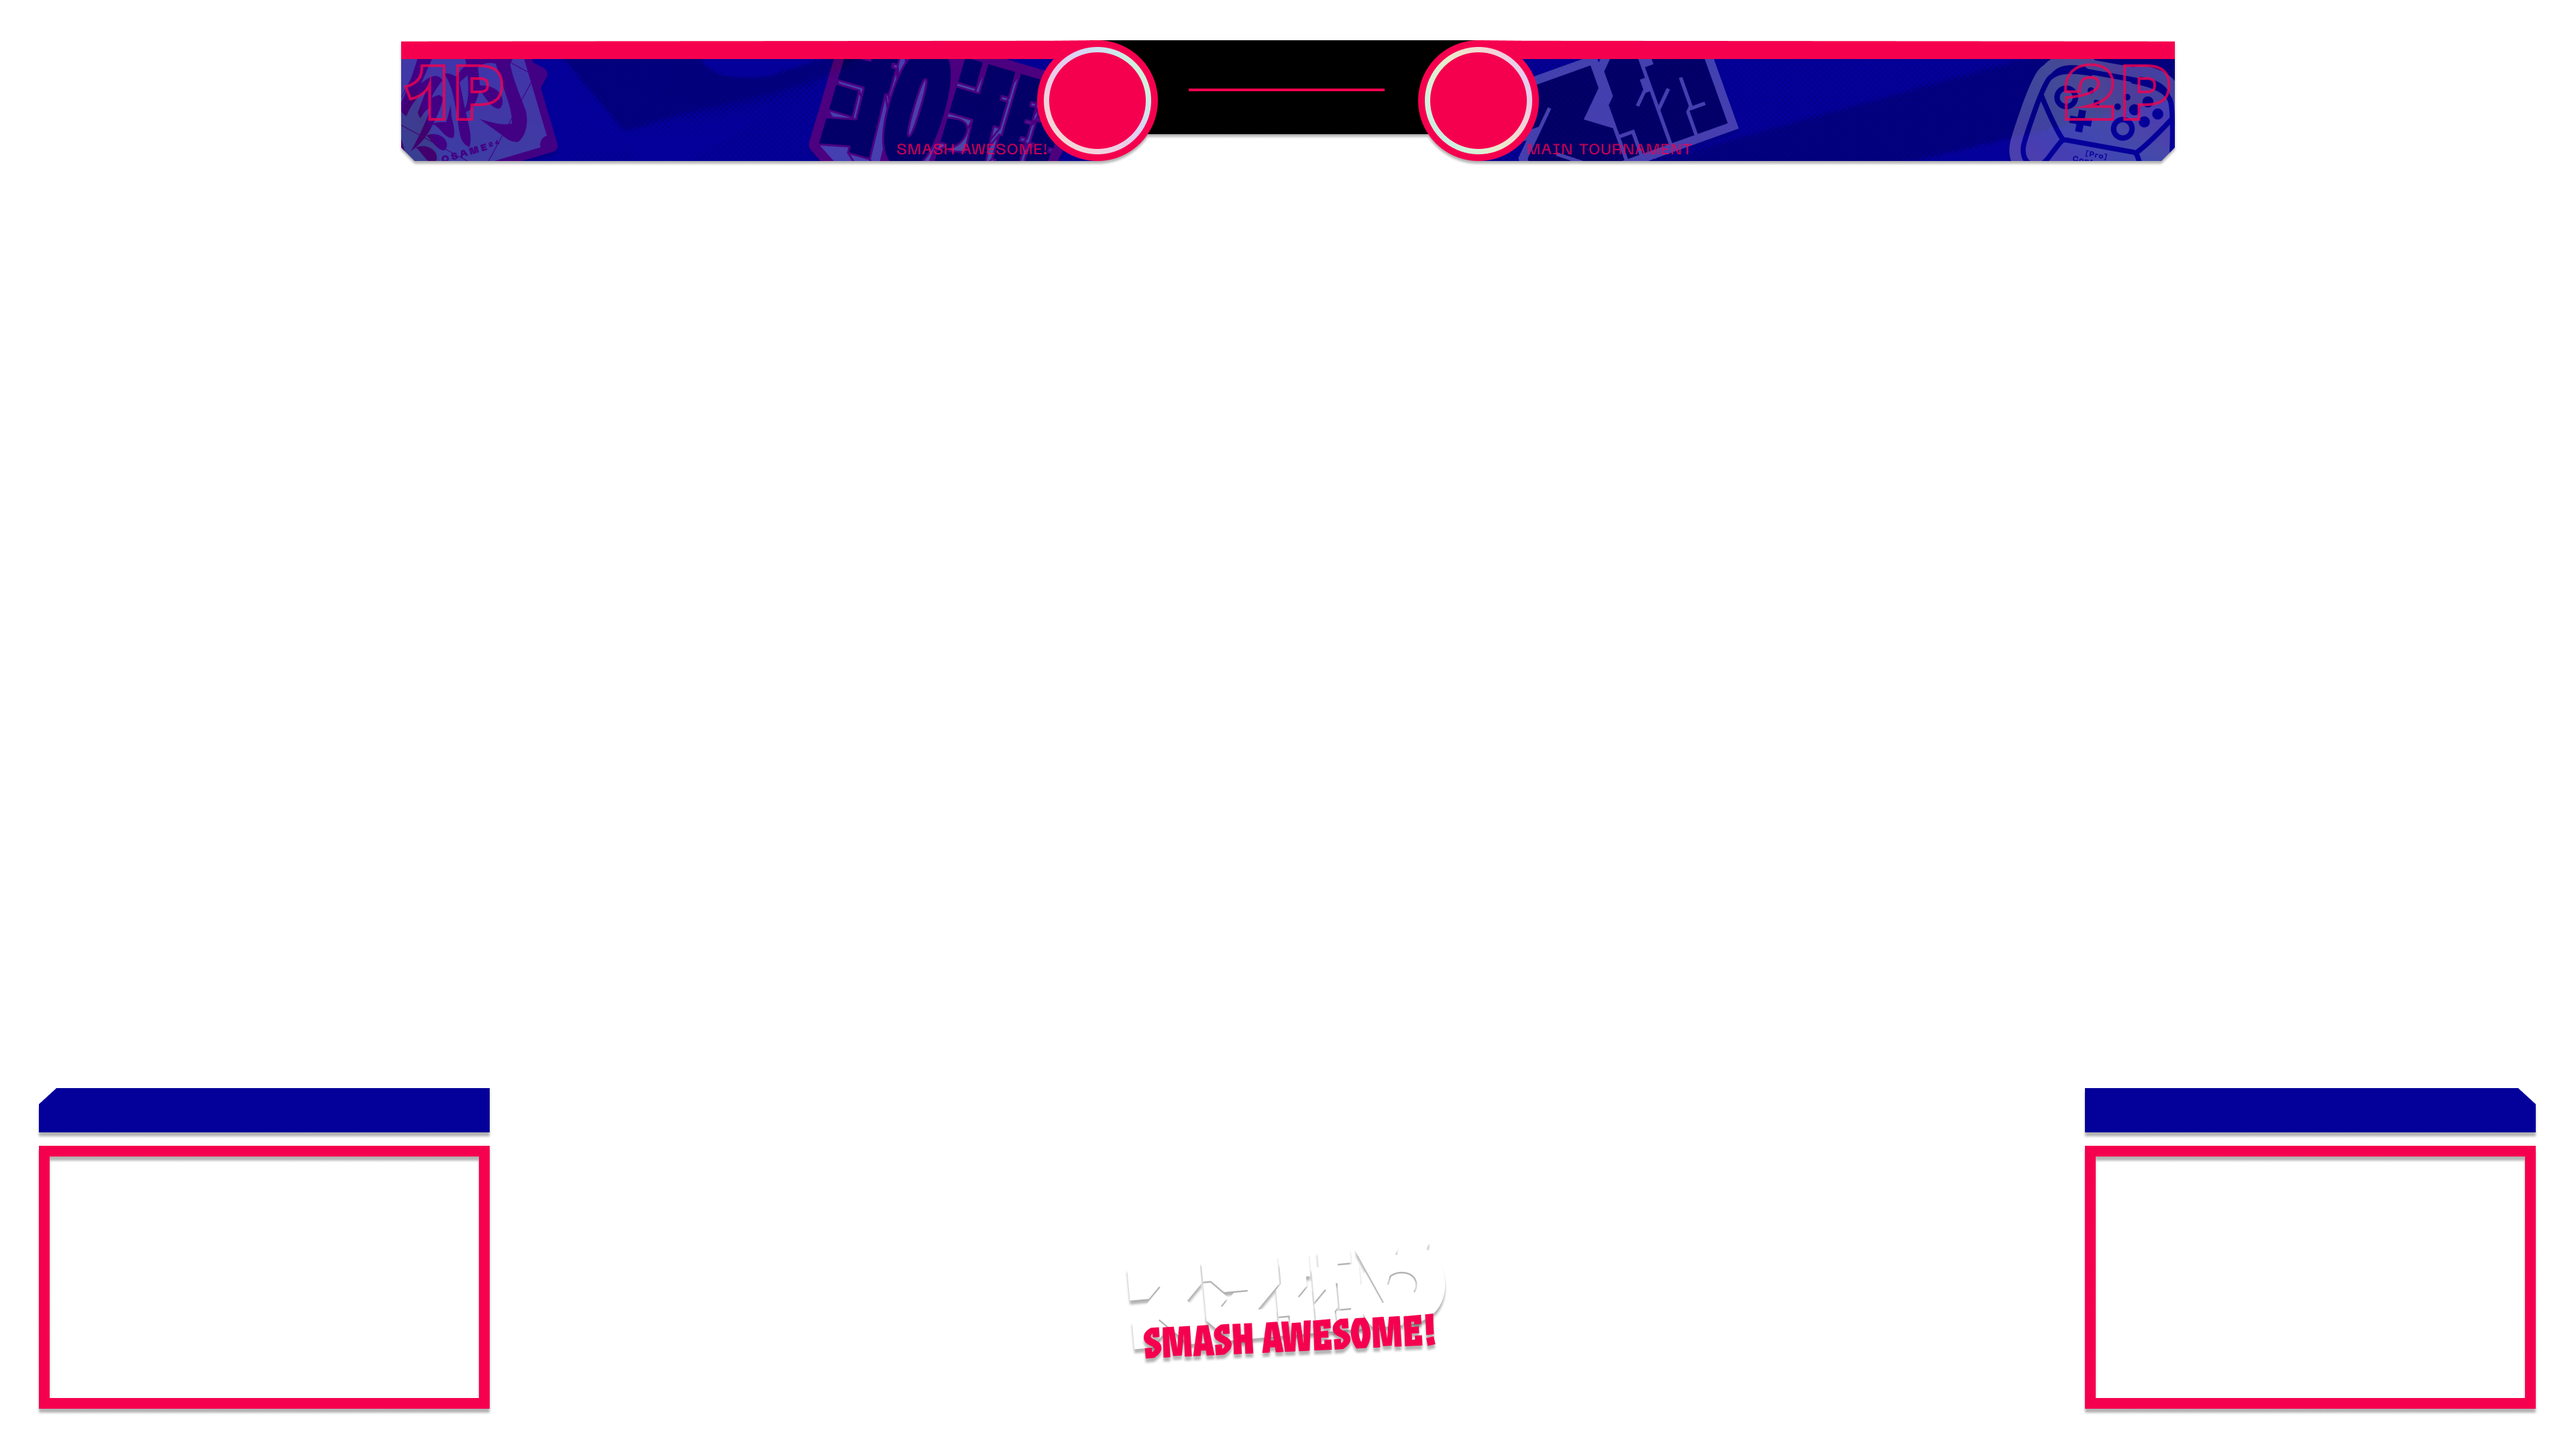
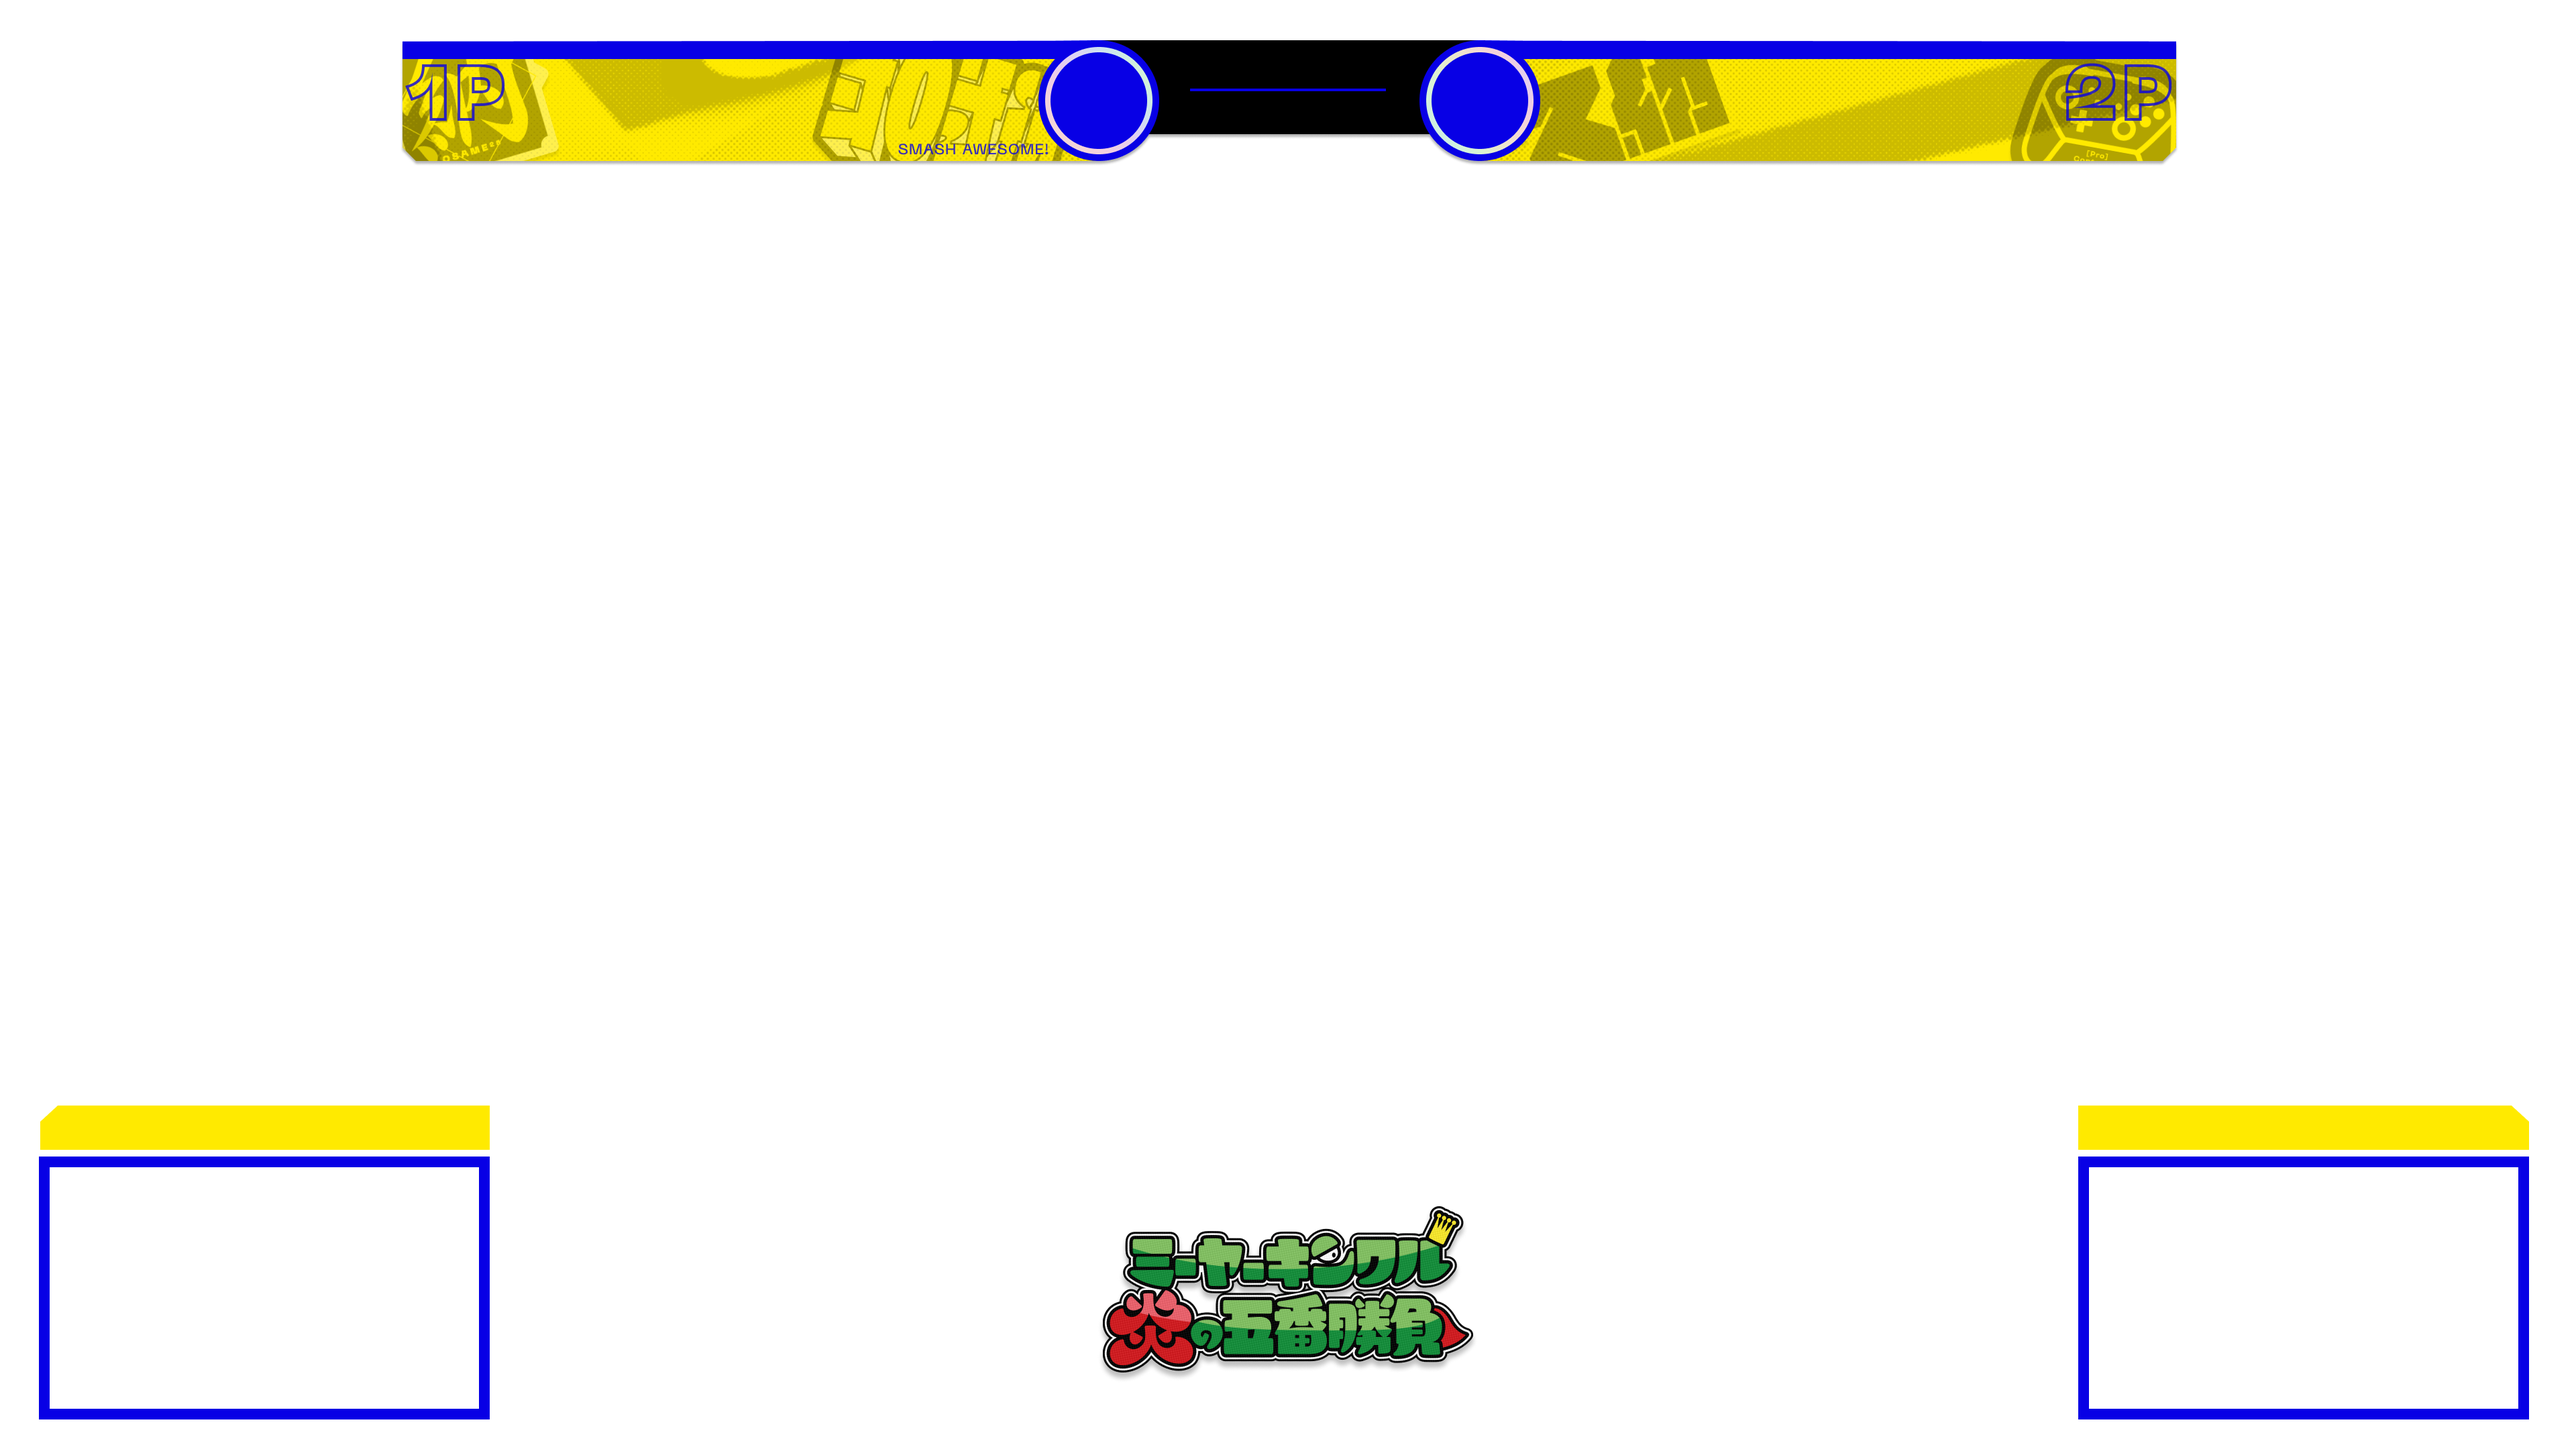
updated for 2025

diff --git a/components/obs/score/Solid.scss b/components/obs/score/Solid.scss
@@ -64,7 +64,7 @@
       font-family: "Neue Machina Regular", "IBM Plex Sans JP Text", sans-serif;
       font-size: 34px;
       line-height: 34px;
-      color: var(--player-color);
+      color: black;
       text-align: center;
       letter-spacing: 1px;
     }
@@ -75,7 +75,7 @@
       font-family: "Neue Machina Semibold", "IBM Plex Sans JP Bold", sans-serif;
       font-size: 32px;
       line-height: 32px;
-      color: var(--player-color);
+      color: black;
       text-align: center;
       letter-spacing: 1px;
     }
@@ -114,7 +114,7 @@
 
   .cameraRight,
   .cameraLeft {
-    color: var(--bb-white);
+    color: black;
   }
 
   .logobox {

diff --git a/components/obs/score/base.scss b/components/obs/score/base.scss
@@ -60,7 +60,7 @@ $black: "Satoshi", "Noto Sans JP", sans-serif;
   @include boldWeight;
 
   position: absolute;
-  top: 818px;
+  top: 834px;
   width: 335px;
   height: 30px;
   margin: 0;
